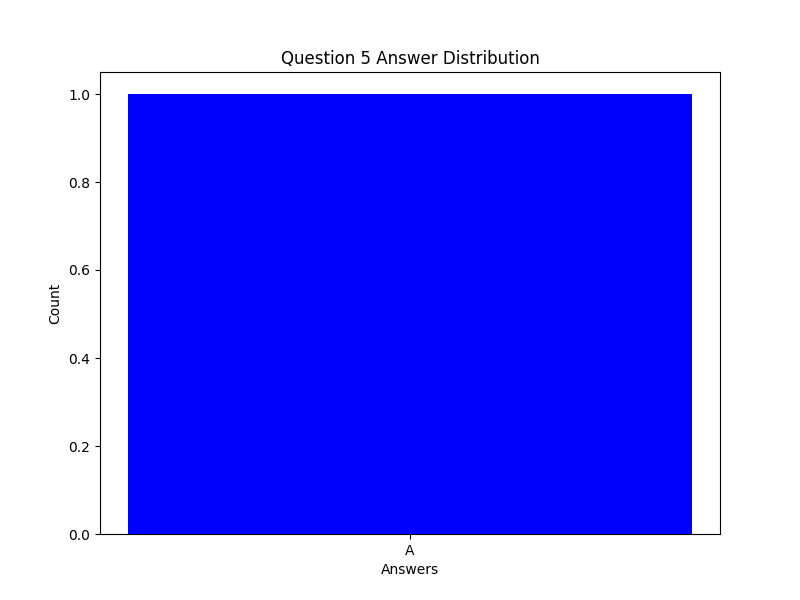
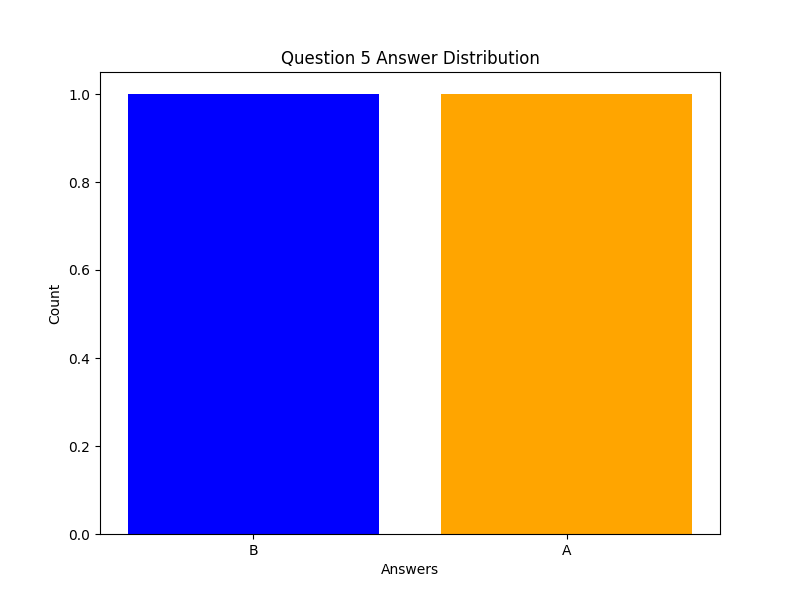
Done version

Changed region(s): [[0.4688, 0.15, 0.875, 0.93], [0.3125, 0.9, 0.3438, 0.93]]

diff --git a/CreateStatistics.py b/CreateStatistics.py
@@ -51,7 +51,8 @@ def count_answers(data, num_questions):
     answer_counts = [{} for _ in range(num_questions)]
     for _, answers in data:
         for i, answer in enumerate(answers):
-            answer_counts[i][answer] = answer_counts[i].get(answer, 0) + 1
+            if i < num_questions:
+                answer_counts[i][answer] = answer_counts[i].get(answer, 0) + 1
     return answer_counts
 
 
@@ -64,7 +65,7 @@ def create_statistics(quiz_id):
     answer_directory = f'/Student_answers/correct_answers/{quiz_id}_correct_answers'
     correct_answers = c_a.read_correct_answers(answer_directory, quiz_id)
 
-    student_answers = s_a.get_student_answers('Student_answers', quiz_id)
+    student_answers = s_a.get_student_answers('Student_answers/combined/', quiz_id)
     number_of_questions = len(student_answers[0][1])
     number_of_answers = count_answers(student_answers, number_of_questions)
     print(number_of_answers)

diff --git a/app.py b/app.py
@@ -299,7 +299,7 @@ def submit_quiz(quiz_id):
     os.makedirs(directory, exist_ok=True)
     with open(filepath, 'w') as f:
         f.write(post_request_text)
-
+    directory = "Student_answers/combined/"
     combine_student_answers(directory)
 
     quiz = get_quiz(quiz_id)
